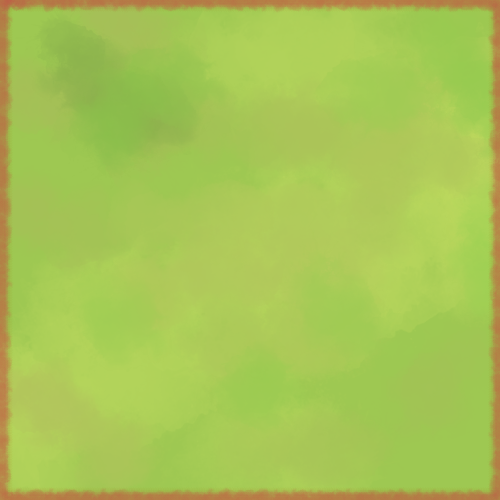
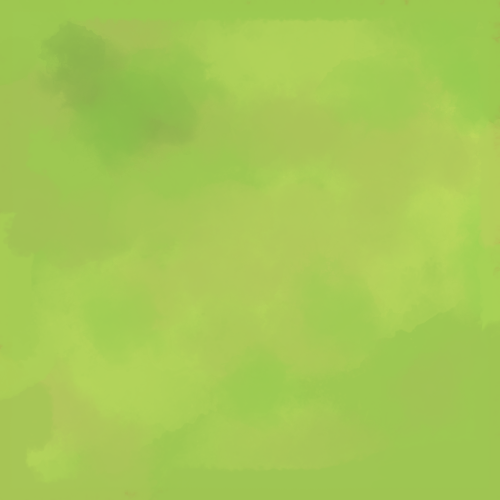
Ground完成^^

Changed region(s): [[0.0, 0.0, 1.0, 1.0]]

diff --git a/Game/Game.cpp b/Game/Game.cpp
@@ -13,6 +13,7 @@ void Game::OnDestroy()
 
 bool Game::Start()
 {
+	ue::CQuaternion rot;
 	cam = &ue::usualEngine()->GetMainCamera();
 	p1 = ue::NewGO<ue::SkinModelRender>(0);
 	p1->Init(L"Assets/model/unityChan.cmo");
@@ -23,24 +24,25 @@ bool Game::Start()
 	p2->SetPos({ -20,0,-50 });
 	p2->SetIsShadowCaster(true);
 
-	p3 = ue::NewGO<ue::SkinModelRender>(0);
+	/*p3 = ue::NewGO<ue::SkinModelRender>(0);
 	p3->Init(L"Assets/model/unityChan.cmo");
 	p3->SetPos({ 0,-50,1500 });
 	p3->SetSca({ 30,30,0.4f });
-	ue::CQuaternion rot;
+	
 	rot.SetRotationDeg(ue::CVector3::AxisX(), -90);
 	p3->SetRot(rot);
-	p3->SetIsShadowCaster(true);
+	p3->SetIsShadowCaster(true);*/
 
 	ground = ue::NewGO<ue::SMR4Ground>(0);
 	ground->InitG(L"Assets/model/dun.cmo", 0, 0, ue::enFbxUpAxisZ);
-	ground->SetSca(ue::CVector3{1, 1.5f, 2});
-	ground->SetPos({ 100,0,0 });
-	rot.SetRotationDeg(ue::CVector3::AxisY(), 90);
-	ground->SetRot(rot);
+	ground->SetSca(ue::CVector3{30, 0.1f, 10});
+	ground->SetPos({ 0,-100,0 });
+	rot.SetRotationDeg(ue::CVector3::AxisZ(), 90);
+	//ground->SetRot(rot);
 
-	campos = { 2500,2500,0 };
+	campos = { 800,300,0 };
 	cam->SetPosition(campos);
+	//cam->SetTarget({ 0,0,0 });
 	cam->Update();
 	return true;
 }
@@ -54,6 +56,8 @@ void Game::Update()
 	rot.Multiply(p);
 
 	auto r = ground->GetRot();
+	//r.Multiply(add);
+	add.SetRotationDeg(ue::CVector3::AxisZ(), 0.7f);
 	r.Multiply(add);
 	//ground->SetRot(r);
 

diff --git a/UsualEngine/Prefab/SkinModelRender4Ground.cpp b/UsualEngine/Prefab/SkinModelRender4Ground.cpp
@@ -19,8 +19,10 @@ namespace UsualEngine
 	{
 		m_goundData.scale = GetSca();
 		CVector3 dir = {0,0,1};
-		GetRot().Multiply(dir);
-		m_goundData.dir = dir;
+		CQuaternion rot = GetRot();
+		rot=rot*-1;
+		rot.w *= -1;
+		m_goundData.dir.MakeRotationFromQuaternion(rot);
 
 		auto dc = usualEngine()->GetGraphicsEngine()->GetD3DDeviceContext();
 		dc->UpdateSubresource(m_groundCB.GetBody(), 0, NULL, (const GroundCB*)& m_goundData, 0, 0);

diff --git a/UsualEngine/math/Vector.h b/UsualEngine/math/Vector.h
@@ -283,6 +283,8 @@ namespace UsualEngine
 			Div(s);
 			return *this;
 		}
+
+
 	public:
 		static CVector3 Zero()
 		{
@@ -494,6 +496,10 @@ namespace UsualEngine
 			DirectX::XMVECTOR xmv = DirectX::XMLoadFloat4(&vec);
 			xmv = DirectX::XMVectorScale(xmv, s);
 			DirectX::XMStoreFloat4(&vec, xmv);
+		}
+		static CVector4 Zero()
+		{
+			return { 0.f,0.f,0.f,0.f };
 		}
 		static CVector4 White()
 		{

diff --git a/UsualEngine/Prefab/SkinModelRender4Ground.h b/UsualEngine/Prefab/SkinModelRender4Ground.h
@@ -9,8 +9,8 @@ namespace UsualEngine
 	public:
 		struct GroundCB
 		{
-			CVector3 scale = CVector3::Zero();
-			CVector3 dir = CVector3::Zero();
+			CVector4 scale = CVector4::Zero();
+			CMatrix dir = CMatrix::Identity();
 		};
 		/// <summary>
 		/// 
